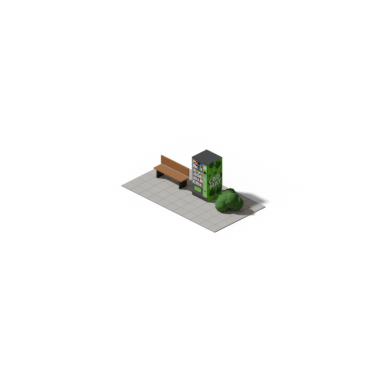
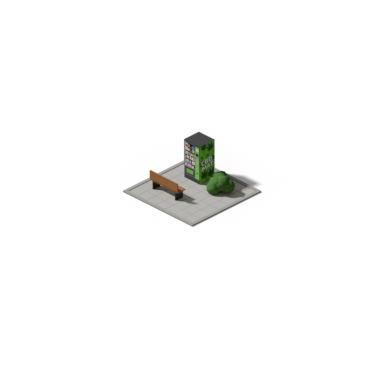
Automat: lavicka pred automatem sedadlem k nemu, skupina do ctverce
Hrac: "lavicku postav pred automat, otoc ji sedadlem k automatu a mas
ctverec". Dlazba 4 x 4 m s obrubnikem uprostred policka, ker vedle
automatu. Obe velikosti znovu.

Claude-Session: https://claude.ai/code/session_01P6zYdmMEQjTTZJyV6Qb8Ch

Changed region(s): [[0.3125, 0.3438, 0.6875, 0.625]]

diff --git a/automat/render_automat.py b/automat/render_automat.py
@@ -4,7 +4,9 @@
 # ortho 30 st. shora, 12,2 px/m v zin4, slunce zleva shora se silnejsimi stiny jako u Tatry, stin na travu na 55 %.
 # Automat podle fotek: tmave seda skrin, prosklena dvirka s regaly, vpravo zeleny pruh s placenim, dole vydejni
 # klapka se zelenym stitkem PULL, bok polepeny zelenou folii s listy konopi, paprsky a bilym napisem CBD MAT.
-# MERITKO=2 udela skupinu (automat, lavicku, ker, dlazbu) dvakrat vetsi, aby byl automat ve hre videt.
+# Skupina je ctverec (hrac: "to mas obdelnicek, neco jako 2x1 policko", "lavicku postav pred automat, otoc ji
+# sedadlem k automatu a mas ctverec"): automat vzadu, lavicka pred nim sedadlem k nemu, ker vedle, dlazba 4 x 4 m
+# s obrubnikem uprostred policka. MERITKO=2 zvetsi celou skupinu i s dlazbou kolem stredu policka.
 #   python3 render_automat.py <vystup.png>
 # Souradnice jako ve hre: x k jihozapadu, y k jihovychodu, z nahoru, pocatek v severnim rohu policka.
 import bpy, bmesh, os, sys, math, json, random
@@ -154,6 +156,7 @@ M = {
     "predek": mat("predek", (0, 0, 0), 0.25, obrazek=os.path.join(TEX, "predek.png")),
     "dlazba": mat("dlazba", (182, 178, 170), 0.9, sum_=0.07, meritko=6.0),
     "spara": mat("spara", (140, 136, 128), 0.95),
+    "obrubnik": mat("obrubnik", (150, 146, 138), 0.9, sum_=0.06, meritko=8.0),
     "lavicka": mat("lavicka", (138, 92, 52), 0.7),
     "kov": mat("kov", (52, 58, 54), 0.5, kov=0.5),
     "ker": mat("ker", (54, 98, 40), 0.9, sum_=0.32, meritko=9.0),
@@ -168,9 +171,10 @@ def B(x, y, z):
     """policko -> Blender; skupina je kolem stredu policka zvetsena K krat"""
     return Vector((C + (y - C) * K, -(C + (x - C) * K), z * K))
 
-def kvadr(m, x0, x1, y0, y1, z0, z1):
-    bm = bm_pro(m)
-    v = [bm.verts.new(B(x, y, z)) for z in (z0, z1) for y in (y0, y1) for x in (x0, x1)]
+def kvadr(m, x0, x1, y0, y1, z0, z1, pevne=False):
+    """kvadr; pevne = na policku bez zvetseni (dlazba)"""
+    bm = bm_pro(m); b_ = (lambda x, y, z: Vector((y, -x, z))) if pevne else B
+    v = [bm.verts.new(b_(x, y, z)) for z in (z0, z1) for y in (y0, y1) for x in (x0, x1)]
     for f in ((0, 1, 3, 2), (4, 6, 7, 5), (0, 4, 5, 1), (2, 3, 7, 6), (0, 2, 6, 4), (1, 5, 7, 3)):
         bm.faces.new([v[i] for i in f])
 
@@ -187,8 +191,8 @@ def obraz(m, rohy):
         smycka[uv].uv = (u, v)
 
 # ---------------------------------------------------------------- automat, lavicka, ker, dlazba
-AX1 = C + 0.2; AX0 = AX1 - 0.85                 # predek k jihozapadu (+x), hloubka 85 cm
-AY0 = C + 0.2; AY1 = AY0 + 0.9                  # sirka 90 cm, bok s polepem k jihovychodu (+y)
+AX0 = C - 1.45; AX1 = AX0 + 0.85                # predek k jihozapadu (+x), hloubka 85 cm
+AY0 = C - 1.05; AY1 = AY0 + 0.9                  # sirka 90 cm, bok s polepem k jihovychodu (+y)
 AZ0, AZ1 = 0.04, 1.83
 kvadr(M["skrin"], AX0, AX1, AY0, AY1, AZ0, AZ1)
 for xx in (AX0 + 0.06, AX1 - 0.1):                                            # nozicky
@@ -209,23 +213,22 @@ def lavicka(x, y, uhel):
     kus(M["lavicka"], -0.8, 0.8, 0.2, 0.25, 0.5, 0.88)
     for u in (-0.65, 0.65):
         kus(M["kov"], u - 0.03, u + 0.03, -0.2, 0.22, 0.0, 0.42)
-lavicka(AX1 - 0.15, AY0 - 1.35, 0.0)                                         # vlevo od automatu, sedi se k jihozapadu
+lavicka(AX1 + 1.4, (AY0 + AY1) / 2, math.pi)                               # pred automatem, sedi se k nemu
 
-# dlazba z betonovych dlazdic 50 cm se sparami
-DX0, DX1, DY0, DY1 = AX0 - 0.6, AX1 + 1.5, AY0 - 2.6, AY1 + 1.9
-Z_D = 0.03
-kvadr(M["spara"], DX0, DX1, DY0, DY1, 0.0, Z_D - 0.004)
-x = DX0
-while x < DX1 - 0.01:
-    y = DY0
-    while y < DY1 - 0.01:
-        kvadr(M["dlazba"], x + 0.012, min(x + 0.5, DX1) - 0.012, y + 0.012, min(y + 0.5, DY1) - 0.012, 0.0, Z_D)
-        y += 0.5
-    x += 0.5
+# dlazba 4 x 4 m z betonovych dlazdic 50 cm se sparami, kolem obrubnik 15 cm, uprostred policka
+D0, D1, OBR, Z_D = C - 2.0, C + 2.0, 0.15, 0.03
+for (x0, x1, y0, y1) in ((D0, D1, D0, D0 + OBR), (D0, D1, D1 - OBR, D1), (D0, D0 + OBR, D0 + OBR, D1 - OBR), (D1 - OBR, D1, D0 + OBR, D1 - OBR)):
+    kvadr(M["obrubnik"], x0, x1, y0, y1, 0.0, Z_D + 0.03)
+kvadr(M["spara"], D0 + OBR, D1 - OBR, D0 + OBR, D1 - OBR, 0.0, Z_D - 0.004)
+n_ = int(round((D1 - D0 - 2 * OBR) / 0.5)); kr = (D1 - D0 - 2 * OBR) / n_
+for i in range(n_):
+    for j in range(n_):
+        x, y = D0 + OBR + kr * i, D0 + OBR + kr * j
+        kvadr(M["dlazba"], x + 0.012, x + kr - 0.012, y + 0.012, y + kr - 0.012, 0.0, Z_D)
 
 # kericek vpravo za automatem: par koul s hrbolky, mekce stinovany
 rnd = random.Random(5)
-KX, KY, KR = AX0 + 0.55, AY1 + 0.95, 0.6
+KX, KY, KR = AX0 + 0.6, AY1 + 0.95, 0.6               # vpravo vedle automatu
 for i in range(9):                                     # hrbolaty ker z mensich chumacu, ne hladka koule
     a = rnd.random() * 2 * math.pi; d = KR * 0.6 * math.sqrt(rnd.random())
     rr = KR * (0.38 + 0.16 * rnd.random())

diff --git a/automat/README.md b/automat/README.md
@@ -1,7 +1,8 @@
 # Automat na marihuanu (1 políčko)
 
 Hráč 1. 10. s fotkami automatů CBD MAT: *„ještě udělej 1x1 políčko automat na marihuanu s lavičkou a keříčkem
-křoví“*. Jen obrázek jako u gymnázia, do hry ho zabuduje session hry ve forclaude.
+křoví“*, pak *„to máš obdélníček, něco jako 2x1 políčko“*, *„lavičku postav před automat, otoč ji sedadlem
+k automatu a máš čtverec“*. Jen obrázek jako u gymnázia, do hry ho zabuduje session hry ve forclaude.
 
 Vlastní model, žádný cizí: `render_automat.py` ho postaví v Blenderu a vyfotí. Kamera, měřítko a světlo jako
 gymnázium (`gymnazium/`) a auta: 12,2 px/m v přiblížení 4×, políčko 14,84 m, stín na trávu na 55 %.
@@ -10,10 +11,11 @@ gymnázium (`gymnazium/`) a auta: 12,2 px/m v přiblížení 4×, políčko 14,8
   policemi balíčků, svítícím pásem LED a nálepkou POZOR, vpravo zelený pruh s ceníkem, čtečkou karet, displejem,
   klávesnicí a mincemi, dole výdejní klapka se zeleným štítkem PULL. Bok polepený zelenou fólií s listy konopí,
   paprsky a bílým nápisem CBD MAT. Polep a předek kreslí skript sám (`textury/bok.png`, `textury/predek.png`).
-- **Kolem:** lavička vlevo, hrbolatý keřík vpravo za automatem, pod tím betonová dlažba 50 cm se spárami.
+- **Kolem, do čtverce:** automat vzadu, lavička před ním sedadlem k automatu, hrbolatý keřík vpravo vedle
+  automatu, pod tím čtverec 4 × 4 m betonové dlažby 50 cm se spárami a obrubníkem, uprostřed políčka.
   Předek automatu míří k jihozápadu (na obrázku doleva dolů), bok s polepem k jihovýchodu.
 - Ve skutečné velikosti je automat při přiblížení 4× jen asi 15 × 20 px. Proto i dvakrát větší skupina
-  (`MERITKO=2`), vedle aut je ale velká: automat 3,7 m, lavička 3,2 m. Hráč vybere.
+  (`MERITKO=2`, i s dlažbou 8 × 8 m), vedle aut je ale velká: automat 3,7 m, lavička 3,2 m. Hráč vybere.
 
 | soubor | co to je |
 |---|---|
